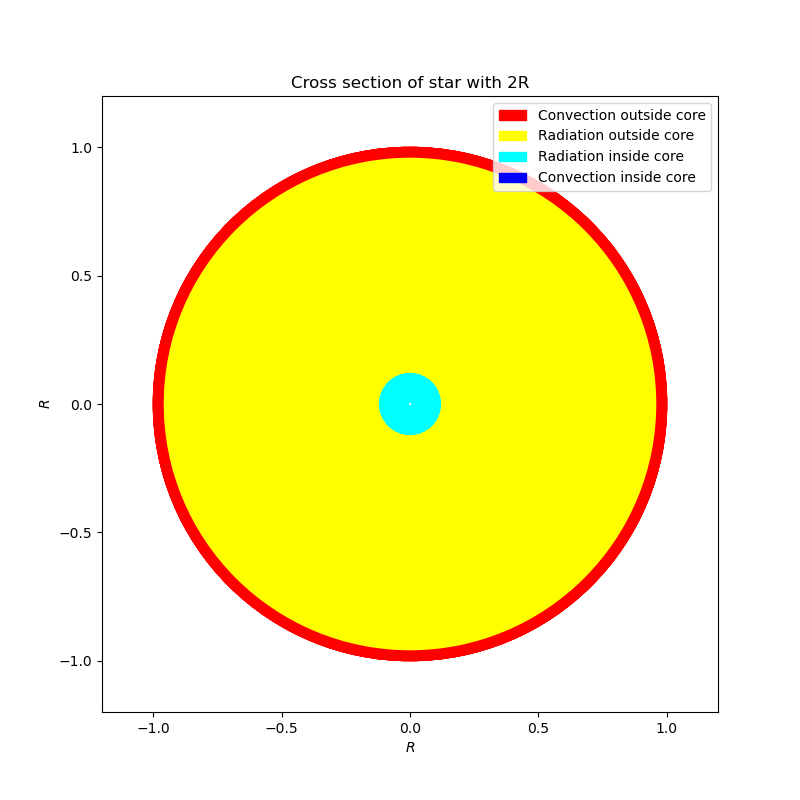
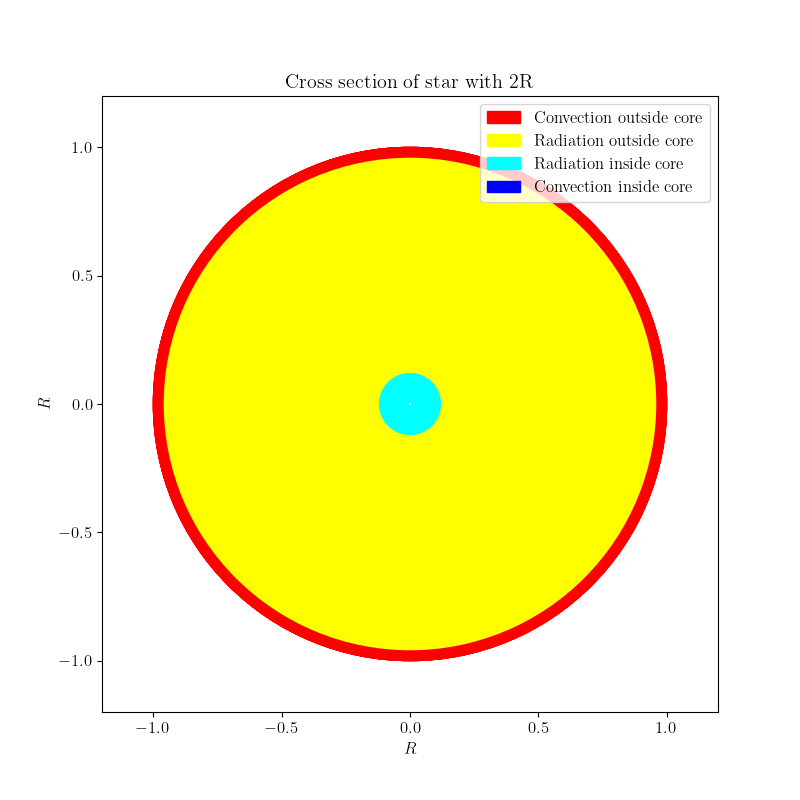
Finished the tasks

diff --git a/energy-transport/star_model.py b/energy-transport/star_model.py
@@ -8,8 +8,12 @@ import matplotlib.pyplot as plt
 from scipy.interpolate import RectBivariateSpline
 from scipy.integrate import solve_ivp
 import scipy.constants as const 
+from scipy.stats import chisquare as chi
 
 plt.rcParams['lines.linewidth'] = 1
+plt.rcParams['font.size'] = 12
+plt.rcParams['text.usetex'] = True
+plt.rcParams['font.family'] = 'Helvetica'
 
 # Sun parameters 
 L_sun = 3.846e26		# [W]
@@ -30,7 +34,7 @@ mu = 1. / (2 * X + Y_He3 + (3/4 * Y) + (4/7 * Z_Li7) + (5/7 * Z_Be7) + (4/7 * Z_
 nabla_ad = 2/5 	# Adiabatic temperature gradient for ideal gas
 
 # Initial parameters 
-rho_0 = 1.42e-7 * avgRho_sun
+rho_0 = 1.42e-7 * avgRho_sun * 30
 T_0 = 5770
 P_G = rho_0 / (mu * const.m_u) * const.k * T_0		# Gas pressure 
 P_rad = 4/3 * const.sigma * T_0**4 / const.c 		# Radiative pressure 
@@ -38,145 +42,96 @@ P_0 = (P_G + P_rad)
 L_0 = L_sun
 M_0 = M_sun
 R_0 = R_sun
-max_param_vals = [.05, .05, .05]
-max_core_lum = .995 
-min_core_dist = .1 
-min_con_zone_width = .15
 
-n_params = 4 
-n_tests = 4
+variable_params = np.array([M_0, R_0, L_0, T_0])
 
-goal_param_vec = np.array(max_param_vals + [max_core_lum, min_core_dist, min_con_zone_width])
-model_param_array = np.zeros((n_params, n_tests + 2))
-
-result_array = np.zeros((n_params, n_tests))
-init_params = np.array([M_0, R_0, L_0, T_0])
-
-print('\nPrograssion:')
-
-for i in range(n_params):
-
-	print(f'Starting on parameter {i+1} of {n_params}\n')
-
-	for j in range(n_tests):
-
-		k = j + 1 
-
-		variable_params = init_params
-		variable_params[i] *= k
-
-		m_i, r_i, L_i, T_i = variable_params
-
-		P_rad = 4/3 * const.sigma * T_i**4 / const.c 
-		P_G = rho_0 / (mu * const.m_u) * const.k * T_i
-		P = P_G + P_rad
-
-		model = Star(m_i, r_i, P, L_i, T_i)
-		model.integrate_equtations(p=1e-2, output=False)
-
-		m, r, P, L, T, rho, nabla_star, nabla_stable, F_rad, F_con, eps = model.get_arrays()
-
-
-		model_param_vals = [L[-1]/L[0], m[-1]/m[0], r[-1]/r[0]]
-		model_core_lum = L[-1] / L[0]
-		core_dist = r[(L < L[0] * .995)] / r[0]
-
-		if core_dist.size == 0:
-
-			model_core_dist = 0
-
-		else:
-
-			model_core_dist = core_dist[0]
-
-		model_con_zone_range = r[np.logical_and(F_con > 0, r > r[0] / 2)]
-		model_con_zone_width = (model_con_zone_range[0] - model_con_zone_range[-1]) / r[0]
-		model_params = np.array(model_param_vals + [model_core_lum, model_core_dist, model_con_zone_width])
-
-		squares = (np.sum(goal_param_vec * model_params) - (np.sum(goal_param_vec) * np.sum(model_params))) \
-														 / (np.sum(goal_param_vec**2) - np.sum(goal_param_vec)**2)
-
-		result_array[i, j] = squares
-
-		print(f'Finished {j+1} of {n_tests} tests on paramter {i+1}')
-
-	print(f'\nFinished testing for parameter {i+1} of {n_params}\n')
-
-
-m_coeff = 1.45
-_, r_coeff, L_coeff, T_coeff = np.min(result_array[:, 1:], axis=1)
-
-M_fit = M_0 * m_coeff
-R_fit = R_0 * r_coeff
-L_fit = L_0 * L_coeff
-T_fit = T_0 * T_coeff
+M_fit, R_fit, L_fit, T_fit = variable_params * [1, 0.9, 1.2, .8]
 
 best = Star(M_fit, R_fit, P_0, L_fit, T_fit)
-best.integrate_equtations(p=1e-2)
+best.integrate_equtations(p=1e-2, include_cycles=True)
 
-m, r, P, L, T, rho, nabla_star, nabla_stable, F_rad, F_con, eps = best.get_arrays()
+m, r, P, L, T, rho, nabla_star, nabla_stable, F_rad, F_con, eps, PP1, PP2, PP3, CNO = best.get_arrays(include_cycles=True)
+
+r_plot = r/R_sun
+ticks = np.linspace(r_plot[-1], r_plot[0], 6)
+
+F_con_fraction = F_con / np.sum(F_rad + F_con)
+F_rad_fraction = F_rad / np.sum(F_rad + F_con)
+
+eps_max = PP1 + PP2 + PP3 + CNO
+# eps_max += (1 * (eps_max == 0))
 
 L_core = L[-1]/L[0]
 R_core = r[(L < .995 * L[0])][0] / r[0]
 con_width_range = r[np.logical_and(F_con > 0, r > r[0]/2)]
 con_width = (con_width_range[0] - con_width_range[-1]) / r[0]
 
-print(f'\nCore luminosity:\t{L_core:5.3f} * L_0')
-print(f'Core radius:\t\t{R_core:7.3f} % of R_0')
-print(f'Surface con. width:\t{con_width:7.3f} % of R_0\n')
+print(f'\nCore luminosity:\t{L_core*100:7.2e} % of L_0')
+print(f'Core radius:\t\t{R_core*100:7.2e} % of R_0')
+print(f'Surface con. width:\t{con_width*100:7.2e} % of R_0\n')
 
-iterations = np.linspace(0, len(m), len(m))
+gridspec = dict(hspace=0, height_ratios=[1, 1, .4, 1])
+fig, axes = plt.subplots(4, 1, figsize=(9, 7), gridspec_kw=gridspec)
 
-plt.figure(figsize=(10,4))
-plt.plot(iterations, m/np.max(m), ls='solid', color='black', label=r'$M/M_{max}$')
-plt.plot(iterations, r/np.max(r), ls='dashed', color='black', label=r'$R/R_{max}$')
-plt.plot(iterations, L/np.max(L), ls='dashdot', color='black', label=r'$L/L_{max}$')
-plt.plot(iterations, 0.05*np.ones(len(iterations)), ls='dotted', color='black')
-plt.legend()
-plt.xlabel('Iterations')
-plt.tight_layout()
-# plt.savefig('figures/sanity/convergence_check.pdf')
-# plt.savefig('figures/sanity/convergence_check.png')
+axes[0].plot(r_plot, T, ls='solid', color='black', label=r'$T$')
+axes[0].legend()
+axes[0].set_xticklabels([])
 
-plt.figure()
-plt.plot(r/np.max(r), eps, lw=1, color='black', label=r'$\partial L/\partial m$')
-plt.yscale('log')
-plt.legend()
-plt.xlabel(r'$R/R_{max}$')
-plt.ylabel(r'Js$^{-1}$')
-plt.tight_layout()
-# plt.savefig('figures/sanity/epsilon.pdf')
-# plt.savefig('figures/sanity/epsilon.png')
+axes[1].plot(r_plot, m/M_sun, ls='solid', color='black', label=r'$M/M_\odot$')
+axes[1].plot(r_plot, L/L_sun, ls='dashed', color='black', label=r'$L/L_\odot$')
+axes[1].legend()
+axes[1].set_xticks(ticks)
+axes[1].set_xlabel(r'$R/R_\odot$')
 
-plt.figure(figsize=(10,4))
-plt.plot(r/np.max(r), T/np.max(T), ls='dashed', color='black', label=r'$T/T_{max}$')
-plt.plot(r/np.max(r), P/np.max(P), ls='dotted', color='black', label=r'$P/P_{max}$')
-plt.plot(r/np.max(r), rho/np.max(rho), ls=(0, (3, 5, 1, 5)), color='black', label=r'$\rho/\rho_{max}$')
-plt.legend()
-plt.xlabel(r'$R/R_{max}$')
-plt.tight_layout()
-# plt.savefig('figures/sanity/T-P-rho.png')
-# plt.savefig('figures/sanity/T-P-rho.pdf')
+axes[2].set_visible(False)
 
-plt.figure(figsize=(10,4))
-plt.plot(r/R_sun, nabla_stable, ls='dotted', color='black', label=r'$\nabla_{stable}$')
-plt.plot(r/R_sun, nabla_star, ls='solid', color='black', label=r'$\nabla^*$')
-plt.plot(r/R_sun, nabla_ad * np.ones(len(r)), ls=(0, (3, 5, 1, 5)), color='black', label=r'$\nabla_{ad}$')
-plt.ylabel(r'$\nabla$')
-plt.xlabel(r'$R/R_\odot$')
-plt.yscale('log')
-plt.legend()
-plt.tight_layout()
-# plt.savefig('figures/sanity/gradients.pdf')
-# plt.savefig('figures/sanity/gradients.png')
+axes[3].plot(r_plot, rho/avgRho_sun, ls='solid', color='black', label=r'$\rho/\bar{\rho}_\odot$')
+axes[3].plot(r_plot, P, ls='dashed', color='black', label=r'$P$')
+axes[3].legend()
+axes[3].set_xscale('log')
+axes[3].set_yscale('log')
+axes[3].set_xlabel(r'$\log_{10}(R/R_\odot)$')
+fig.savefig('figures/best_fit_T-M-L-rho-P.pdf')
+fig.savefig('figures/best_fit_T-M-L-rho-P.png')
 
-# cross_section(r, L, F_con, sanity=True, savefig=True)
-cross_section(r, L, F_con)
+fig, ax = plt.subplots(figsize=(10, 4))
+
+ax.plot(r_plot, F_con_fraction, ls='solid', color='black', label=r'$F_{con}$')
+ax.plot(r_plot, F_rad_fraction, ls='dashed', color='black', label=r'$F_{rad}$')
+ax.legend()
+ax.set_xlabel(r'$R/R_\odot$')
+ax.set_ylabel(r'Fraction of $F_i$')
+ax.set_xticks(ticks)
+fig.tight_layout()
+fig.savefig('figures/flux-fraction.pdf')
+fig.savefig('figures/flux-fraction.png')
+
+fig, ax = plt.subplots(figsize=(10, 4))
+ax.plot(r_plot[(eps_max != 0)], np.flip(PP1/eps_max)[(eps_max != 0)], ls='dashed', color='black', label=r'$\epsilon_{PP1}/\epsilon_{max}$')
+ax.plot(r_plot[(eps_max != 0)], np.flip(PP2/eps_max)[(eps_max != 0)], ls=(0, (1, 10)), color='black', label=r'$\epsilon_{PP2}/\epsilon_{max}$')
+ax.plot(r_plot[(eps_max != 0)], np.flip(PP3/eps_max)[(eps_max != 0)], ls=(0, (5, 10)), color='black', label=r'$\epsilon_{PP3}/\epsilon_{max}$')
+ax.plot(r_plot[(eps_max != 0)], np.flip(CNO/eps_max)[(eps_max != 0)], ls='dotted', color='black', label=r'$\epsilon_{CNO}/\epsilon_{max}$')
+ax.plot(r_plot[(eps_max != 0)], (eps/np.max(eps))[(eps_max != 0)], ls='solid', color='black', label=r'$L/\epsilon_{max}$')
+ax.legend()
+ax.set_xticks(ticks)
+ax.set_xlabel(r'$R/R_\odot$')
+ax.set_ylabel(r'Rel. energy')
+fig.tight_layout()
+fig.savefig('figures/rel-energy.pdf')
+fig.savefig('figures/rel-energy.png')
+
+fig, ax = plt.subplots(figsize=(10,4))
+ax.plot(r_plot, nabla_star, ls='solid', color='black', label=r'$\nabla^*$')
+ax.plot(r_plot, nabla_stable, ls='dashed', color='black', label=r'$\nabla_{stable}$')
+ax.plot(r_plot, nabla_ad * np.ones(len(r_plot)), ls='dotted', color='black', label=r'$\nabla_{ad}$')
+ax.legend()
+ax.set_xlabel(r'$R/R_\odot$')
+ax.set_ylabel(r'$\nabla_i$')
+ax.set_yscale('log')
+fig.tight_layout()
+fig.savefig('figures/gradients-final.pdf')
+fig.savefig('figures/gradients-final.png')
+
+cross_section(r, L, F_con, savefig=True)
 
 plt.show()
-
-
-
-
-
-

diff --git a/energy-transport/energy_transport.py b/energy-transport/energy_transport.py
@@ -29,6 +29,7 @@ class Star:
 		self.L = [self.L_0]; self.T = [self.T_0]; self.rho = [];
 		self.nabla_star = []; self.nabla_stable = []
 		self.F_rad = []; self.F_con = []; self.epsilon = []
+		self.PP1 = []; self.PP2 = []; self.PP3 = []; self.CNO = []
 
 		# Fractional mass abundances 
 		self.X = .7 			# Fraction of hydrogen 
@@ -144,7 +145,7 @@ class Star:
 
 			return rho
 
-	def evolve_one_step(self, variables, p, sanity_check=False):
+	def evolve_one_step(self, variables, p, sanity_check=False, include_cycles=False):
 		'''
 		Evolve the parameters for mass, radius, pressure,
 		luminosity, and temperature one step length, using
@@ -260,9 +261,17 @@ class Star:
 		T_new = T - dT * dm
 		m_new = m - dm
 
-		return m_new, r_new, P_new, L_new, T_new, rho, nabla_stable, nabla_star, F_rad, F_con, eps
+		if include_cycles:
 
-	def integrate_equtations(self, p, output=True):
+			PP1, PP2, PP3, CNO = np.sum(star.PP1), np.sum(star.PP2), np.sum(star.PP3), np.sum(star.CNO)
+
+			return m_new, r_new, P_new, L_new, T_new, rho, nabla_stable, nabla_star, F_rad, F_con, eps, PP1, PP2, PP3, CNO
+
+		else:
+
+			return m_new, r_new, P_new, L_new, T_new, rho, nabla_stable, nabla_star, F_rad, F_con, eps
+
+	def integrate_equtations(self, p, output=True, include_cycles=False):
 		'''
 		Runs evolve_one_step until either of the
 		mass, radius, or luminosity reaches zero.
@@ -274,12 +283,25 @@ class Star:
 		while self.m[i] > 0 and self.r[i] > 0 and self.L[i] > 0:
 
 			variables = np.array([self.m[i], self.r[i], self.P[i], self.L[i], self.T[i]])
-			m_i, r_i, P_i, L_i, T_i, rho_i, stable_i, star_i, F_rad_i, F_con_i, eps_i = self.evolve_one_step(variables, p)
 
-			self.m.append(m_i); self.r.append(r_i); self.P.append(P_i); self.L.append(L_i)
-			self.T.append(T_i); self.rho.append(rho_i); self.nabla_stable.append(stable_i)
-			self.nabla_star.append(star_i); self.F_rad.append(F_rad_i)
-			self.F_con.append(F_con_i); self.epsilon.append(eps_i)
+			if include_cycles:
+
+				m_i, r_i, P_i, L_i, T_i, rho_i, stable_i, star_i, F_rad_i, F_con_i, eps_i, PP1_i, PP2_i, PP3_i, CNO_i = self.evolve_one_step(variables, p, include_cycles=True)
+
+				self.m.append(m_i); self.r.append(r_i); self.P.append(P_i); self.L.append(L_i)
+				self.T.append(T_i); self.rho.append(rho_i); self.nabla_stable.append(stable_i)
+				self.nabla_star.append(star_i); self.F_rad.append(F_rad_i)
+				self.F_con.append(F_con_i); self.epsilon.append(eps_i)	
+				self.PP1.append(PP1_i); self.PP2.append(PP2_i); self.PP3.append(PP3_i); self.CNO.append(CNO_i)
+
+			else:
+
+				m_i, r_i, P_i, L_i, T_i, rho_i, stable_i, star_i, F_rad_i, F_con_i, eps_i = self.evolve_one_step(variables, p)
+
+				self.m.append(m_i); self.r.append(r_i); self.P.append(P_i); self.L.append(L_i)
+				self.T.append(T_i); self.rho.append(rho_i); self.nabla_stable.append(stable_i)
+				self.nabla_star.append(star_i); self.F_rad.append(F_rad_i)
+				self.F_con.append(F_con_i); self.epsilon.append(eps_i)
 
 			i += 1
 
@@ -299,7 +321,7 @@ class Star:
 			print(f'L/L_0: {self.L[-2]/self.L[0]*100:4.1f} %. L = {self.L[-2]:.3e} W')
 
 
-	def get_arrays(self):
+	def get_arrays(self, include_cycles=False):
 		'''
 		Convert the lists to arrays and returns them. Since the 
 		function integrate_equations runs until the parameter 
@@ -312,7 +334,16 @@ class Star:
 		F_rad = np.array(self.F_rad); F_con = np.array(self.F_con)
 		eps = np.array(self.epsilon)
 
-		return m, r, P, L, T, rho, star, stable, F_rad, F_con, eps
+		if include_cycles:
+
+			PP1 = np.array(self.PP1); PP2 = np.array(self.PP2)
+			PP3 = np.array(self.PP2); CNO = np.array(self.CNO)
+
+			return m, r, P, L, T, rho, star, stable, F_rad, F_con, eps, PP1, PP2, PP3, CNO
+
+		else:
+
+			return m, r, P, L, T, rho, star, stable, F_rad, F_con, eps
 
 	def sanity_check(self):
 		'''
@@ -325,6 +356,9 @@ class Star:
 if __name__ == '__main__':
 
 	plt.rcParams['lines.linewidth'] = 1
+	plt.rcParams['font.size'] = 12
+	plt.rcParams['text.usetex'] = True
+	plt.rcParams['font.family'] = 'Helvetica'
 
 	# Sun parameters 
 	L_sun = 3.846e26		# [W]
@@ -454,8 +488,8 @@ if __name__ == '__main__':
 		ax[i].set_title(title_list[i])
 		ax[i].legend(label_list)
 
-	fig.tight_layout()
-	plt.savefig('figures/testing/variable-params.pdf')
-	plt.savefig('figures/testing/variable-params.png')
+		fig.tight_layout()
+		plt.savefig('figures/testing/variable-params.pdf')
+		plt.savefig('figures/testing/variable-params.png')
 
 	plt.show()
